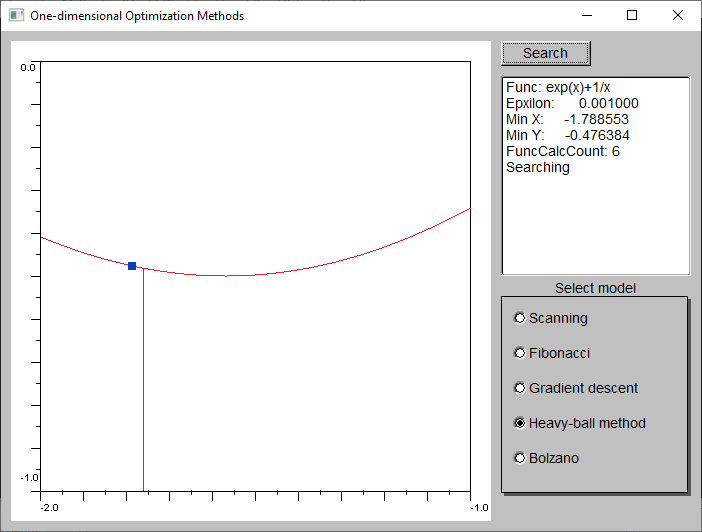
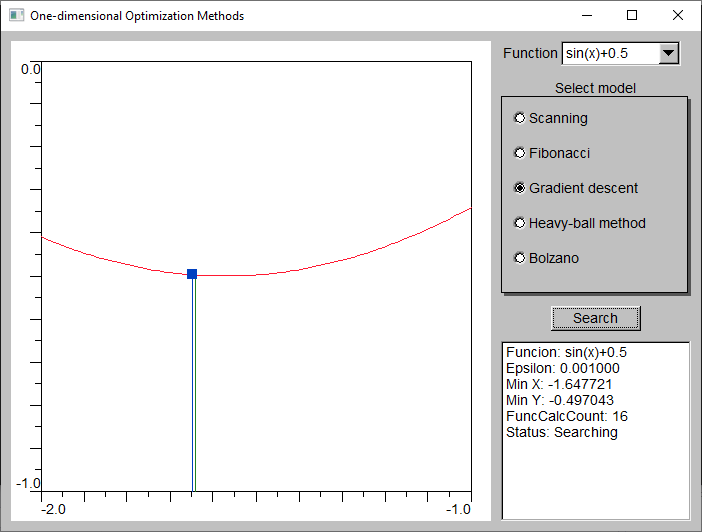
Update README
Update GraphView screenshot
Add more links to 1D optimization methods

diff --git a/README.md b/README.md
@@ -5,7 +5,7 @@ This is the collection of various applications for mechanics simulations and str
 ## Getting Started
 
 All projects use CMake as build system. C++ code compatibility is tested
-with gcc-5 and Microsoft Visual Studio Express 2008 and 2012.
+with gcc and Microsoft Visual Studio.
 
 ## Built With
 
@@ -61,13 +61,14 @@ cd MechanicsPrograms
 mkdir build && cd build
 cmake ..
 make
+make install
 ```
 
-After the successful build the binary of `{Project}`  will end up in `build/{Project}/`.
-E.g. binary of `FEMSolve` can be launched from the build directory with the command
+After the successful build and running `make install` all binaries of  will end up in `bundle` directory.
+E.g. binary of `FEMSolve` can be launched from the source directory with the command
 
 ```
-./FEMSolve/FEMSolve
+./bundle/FEMSolve
 ```
  
 ## Structure
@@ -112,12 +113,13 @@ of a fluid.
 
 ### GraphView
 
-Methods of one-dimensional optimizaion:
-* Fibonacci optimization method
-* [Gradient descent](https://en.wikipedia.org/wiki/Gradient_descent)
-* Heavy ball method
-* Bolzano or half-division method
-* Scanning method
+Methods of one-dimensional minimization (optimization) for  finding a local minimum of a function:
+
+* [Fibonacci optimization method](https://en.wikipedia.org/wiki/Golden-section_search#Fibonacci_search).
+* [Gradient descent](https://en.wikipedia.org/wiki/Gradient_descent).
+* [Heavy ball method](https://en.wikipedia.org/wiki/Gradient_descent#Momentum_or_heavy_ball_method).
+* [Bolzano or bisection method](https://en.wikipedia.org/wiki/Bisection_method).
+* [Scanning method](https://en.wikipedia.org/wiki/Line_search).
 
 ![GraphView screenshot](images/graphview.png)
 
